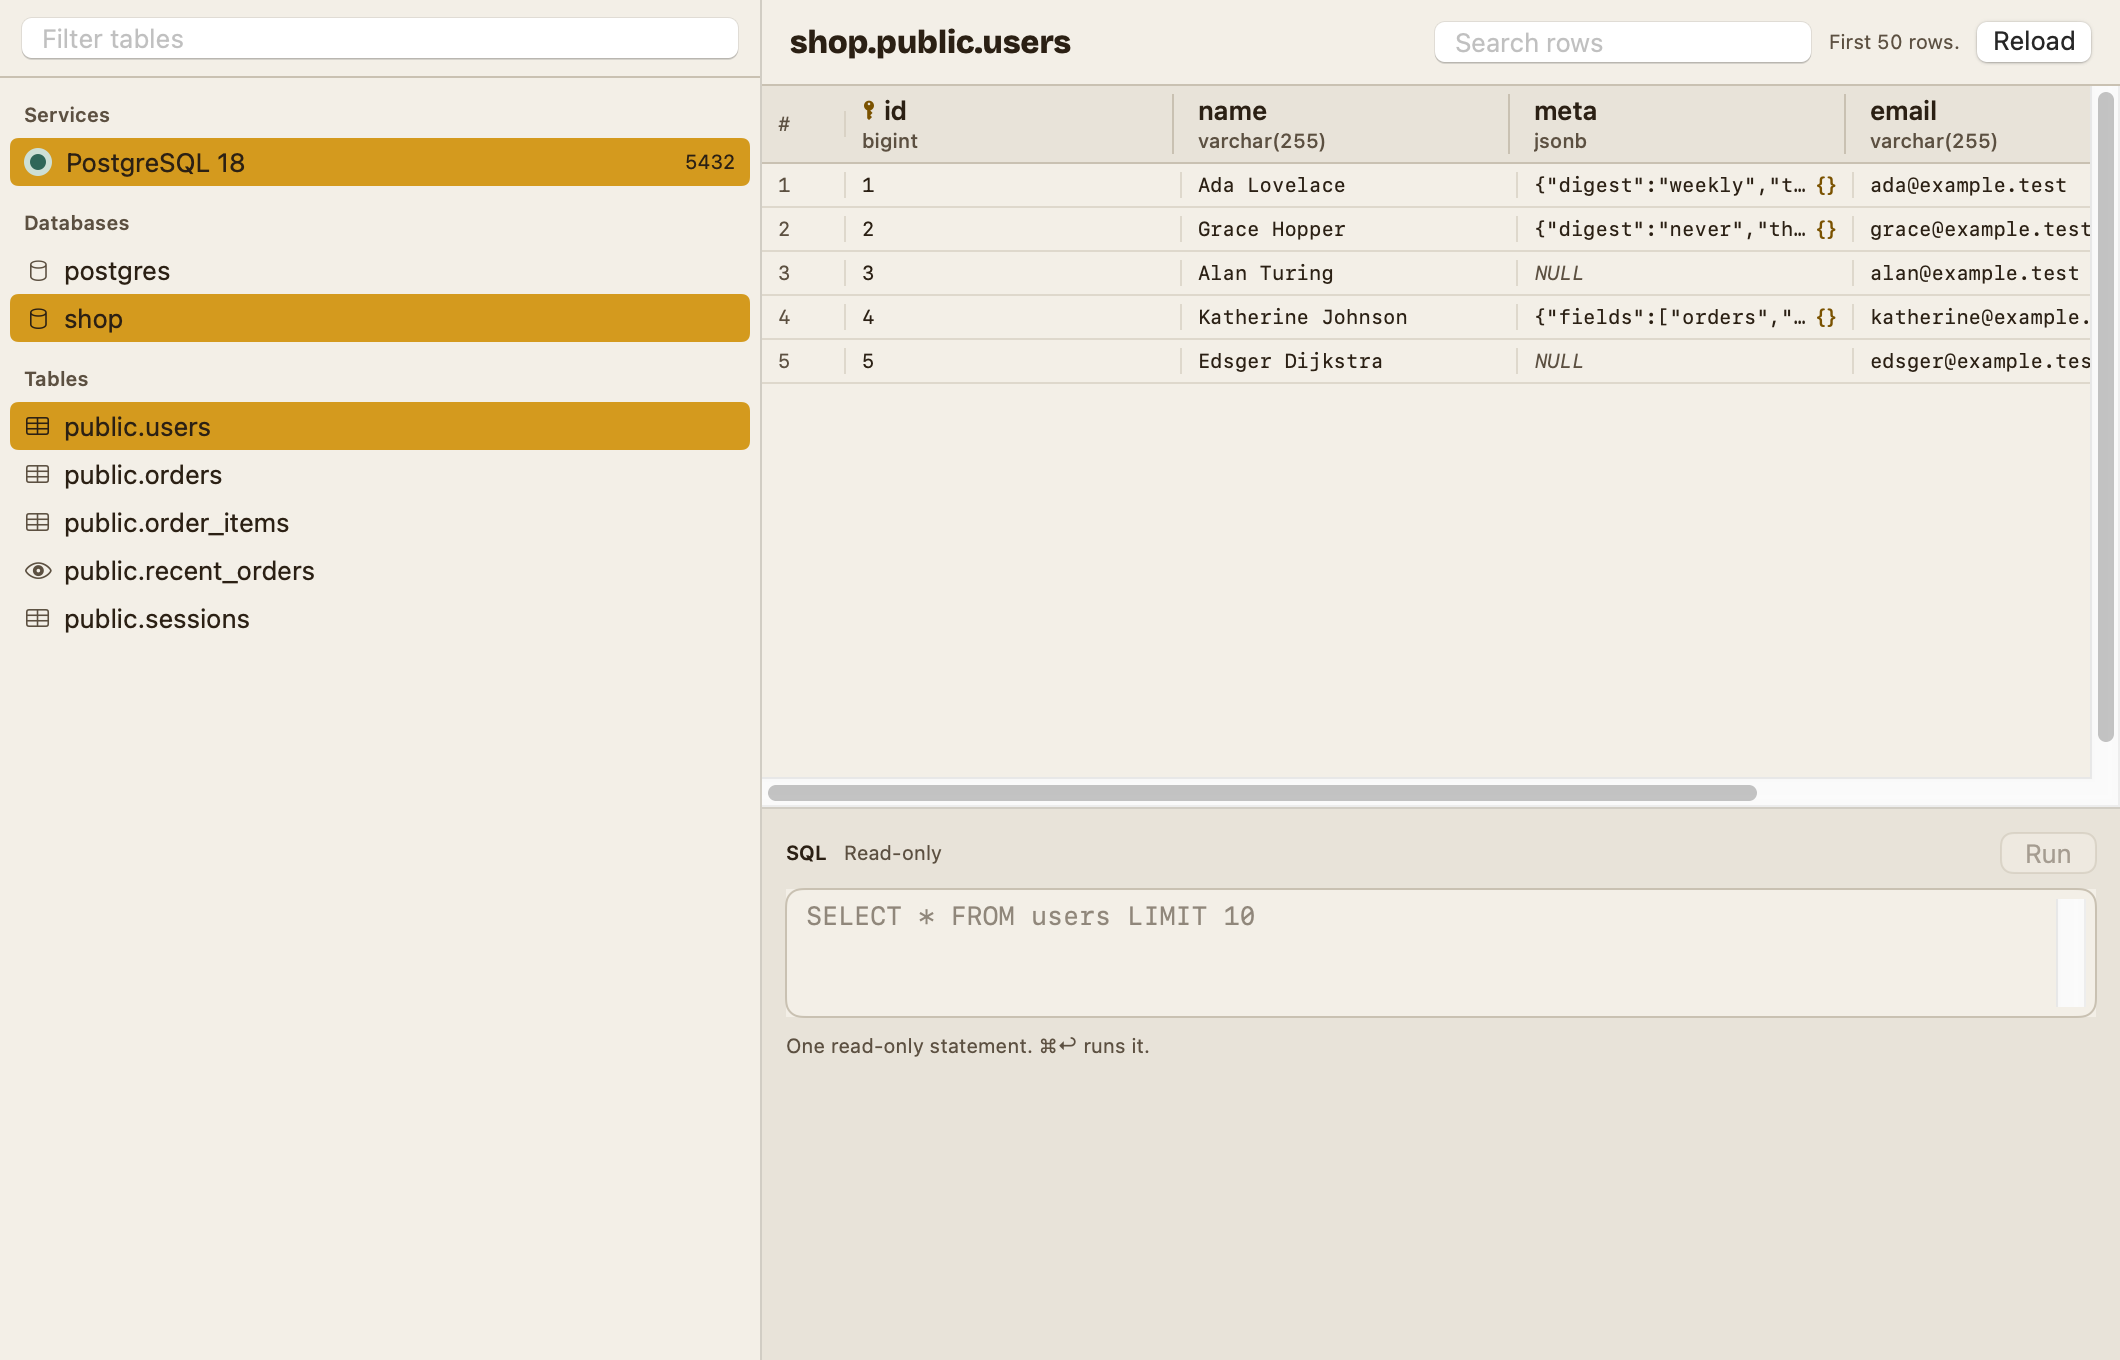
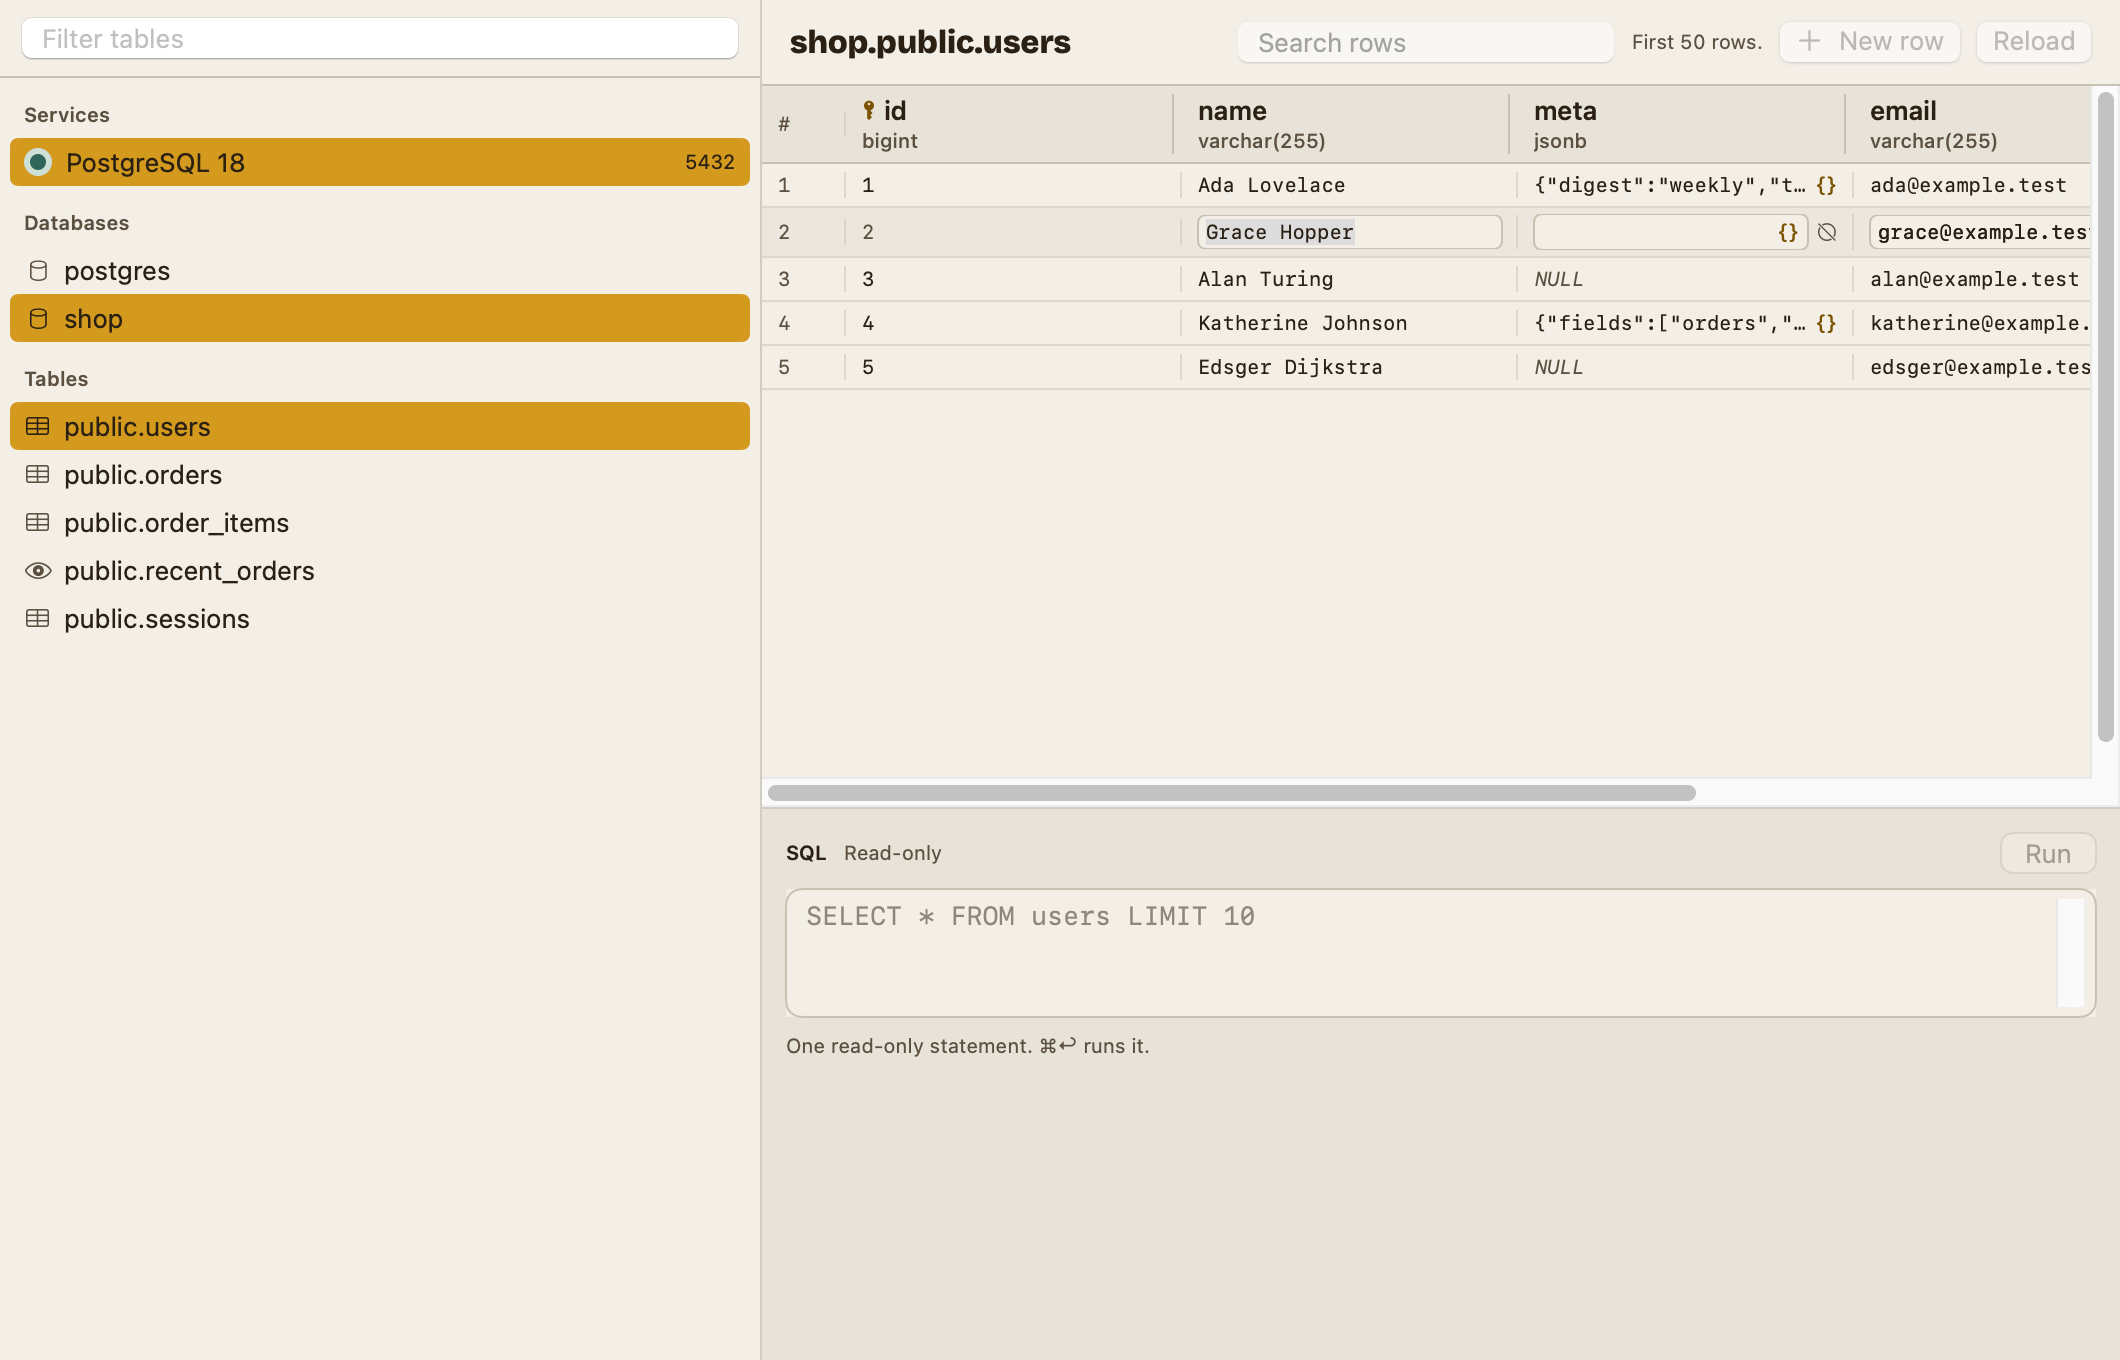
Release notes and version for 0.4.0

diff --git a/Sources/PaddockCore/Engine.swift b/Sources/PaddockCore/Engine.swift
@@ -4,7 +4,7 @@ import Foundation
 /// Which build of Paddock this is, so a client can tell a daemon from another build.
 public enum PaddockBuild {
     /// Raised with every release whose daemon and clients must match (it is in every status reply).
-    public static let number = 23
+    public static let number = 24
 
     /// The running program, symlinks resolved.
     public static var runningExecutable: String? {

diff --git a/README.md b/README.md
@@ -97,7 +97,7 @@ you a question Paddock could answer itself.
 | **A Dumps window** | While it is open, `dump()` and `dd()` from every site and from `php` in the terminal show in Paddock instead of in the page. Close it and they show where they always did. |
 | **A Logs window** | Paddock's logs, each service's, each site task's and each site's own `storage/logs`, in one window that follows them as they are written. Laravel errors fold their stack traces. |
 | **A Mail window** | Read the mail your apps send, caught locally: HTML, plain text and source, with attachments. Remote content stays blocked until you ask for it. |
-| **A Databases window** | Browse the PostgreSQL and MySQL services you added: their databases, tables and columns, the first rows, and one read-only SQL statement. Nothing in it can write. |
+| **A Databases window** | Browse and edit the PostgreSQL and MySQL services you added: their databases, tables, columns and rows, with one read-only SQL statement beside them. |
 | **A native menu-bar app** | Start and stop, open sites, switch PHP versions, manage services and tasks. No configuration forms. |
 
 ## Requirements
@@ -261,7 +261,7 @@ Once a PostgreSQL or MySQL service is added, the menu gains a **Databases** row.
 It opens a window on the databases that service holds:
 
 <p align="center">
-  <img src="docs/images/databases-light.png" width="760" alt="The Databases window: a table filter and the services, databases and tables on the left; the users table's columns and rows on the right, with a row search, above a read-only SQL console">
+  <img src="docs/images/databases-light.png" width="760" alt="The Databases window: a table filter and the services, databases and tables on the left; the users table's columns (with a JSON meta column) and rows on the right, with a row search and row actions, above a read-only SQL console">
 </p>
 
 - **Services and databases** on the left: click one to see its tables and
@@ -273,6 +273,12 @@ It opens a window on the databases that service holds:
   `{ }` mark: click it to read the whole document, indented.
 - **Column widths** are yours: drag the divider at the right edge of a column
   in the header.
+- **Editing** works on tables with a primary key: double-click a row (or use
+  its pencil), change its fields, and ⌘⏎ saves; Esc cancels. Only what you
+  changed is written, NULL and empty text stay distinct, and JSON opens in an
+  editable box. Views and tables without a primary key say they are read-only.
+- **+ New row** adds a blank row at the end; fields you leave alone keep the
+  database's default. The trash asks first, naming the row's key.
 - **Search** finds rows holding a text in any column. The database does the
   looking, so it sees the whole table, not just the rows on show; the first 50
   matches appear. **Filter tables** narrows the table list as you type.
@@ -281,8 +287,10 @@ It opens a window on the databases that service holds:
   `EXPLAIN`, `TABLE` or `VALUES`) with ⌘↩, and shows its result. A statement
   that could write is refused before PHP starts, and the statement runs inside
   a read-only transaction with a five-second limit.
-- Nothing here changes a database. Creating one is
-  `paddock service create-db`; the window only reads.
+- Reads still run in read-only transactions and the SQL console can't write.
+  Row edits are individual, confirmed writes: each save checks that the row
+  hasn't changed since it was read, and refuses rather than overwrite it.
+  Creating a database is still `paddock service create-db`.
 
 The window needs the service running; when it isn't added or isn't running, the
 window says so. The same reads are in the CLI: `paddock db`.
@@ -485,7 +493,7 @@ A service's name is like `mail` or `postgres-18`. A version is a series such as
 
 ### Databases
 
-The same read-only browser as the Databases window, for the terminal.
+A read-only browser of the same databases, for the terminal; edits are in the window.
 
 | Command | What it does |
 |---|---|

diff --git a/docs/releases/0.4.0.md b/docs/releases/0.4.0.md
@@ -1,0 +1,7 @@
+Records can be edited, added and deleted in the Databases window.
+
+- Double-click a row of a table with a primary key to change it in place; ⌘⏎ saves and Esc cancels. Only the fields you changed are written.
+- + adds a blank row at the end; untouched fields keep the database's default, and a NULL toggle keeps NULL apart from empty text. JSON columns open in an editable box.
+- The trash asks first, naming the row's key.
+- Every save locks and re-reads its row inside the transaction and refuses if it changed since you opened it, rather than overwriting someone's work.
+- Views and tables without a primary key say they are read-only. The SQL console and `paddock db` stay read-only.
